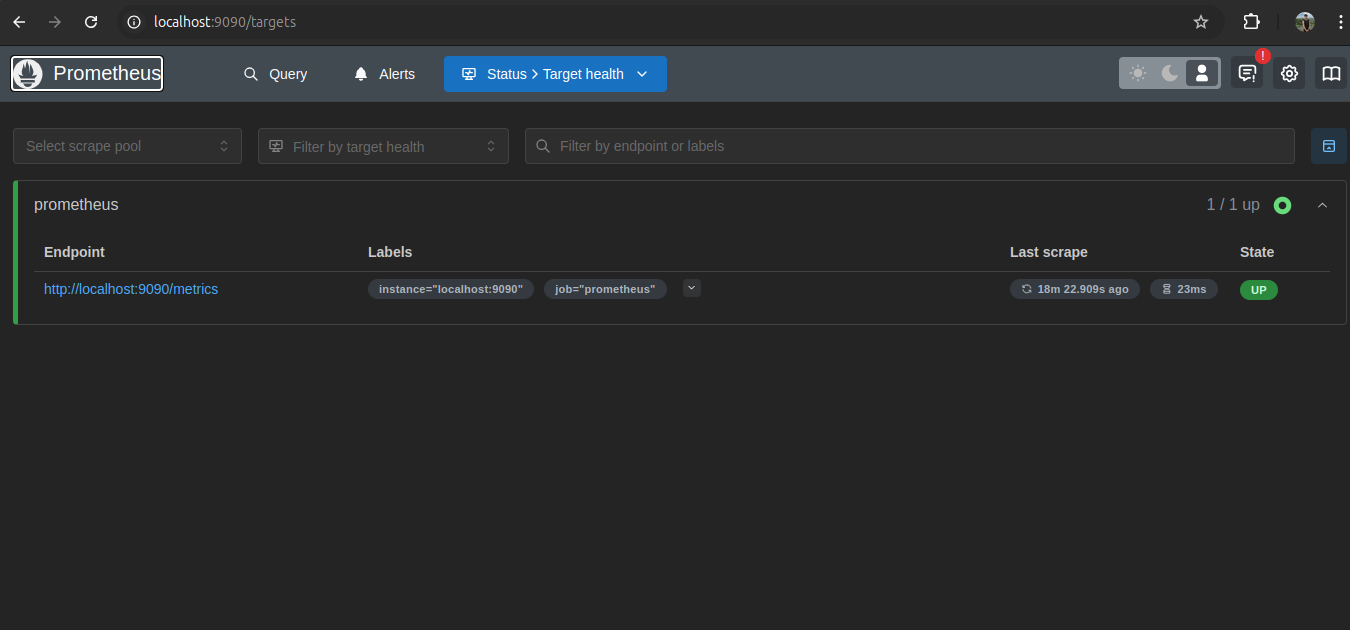
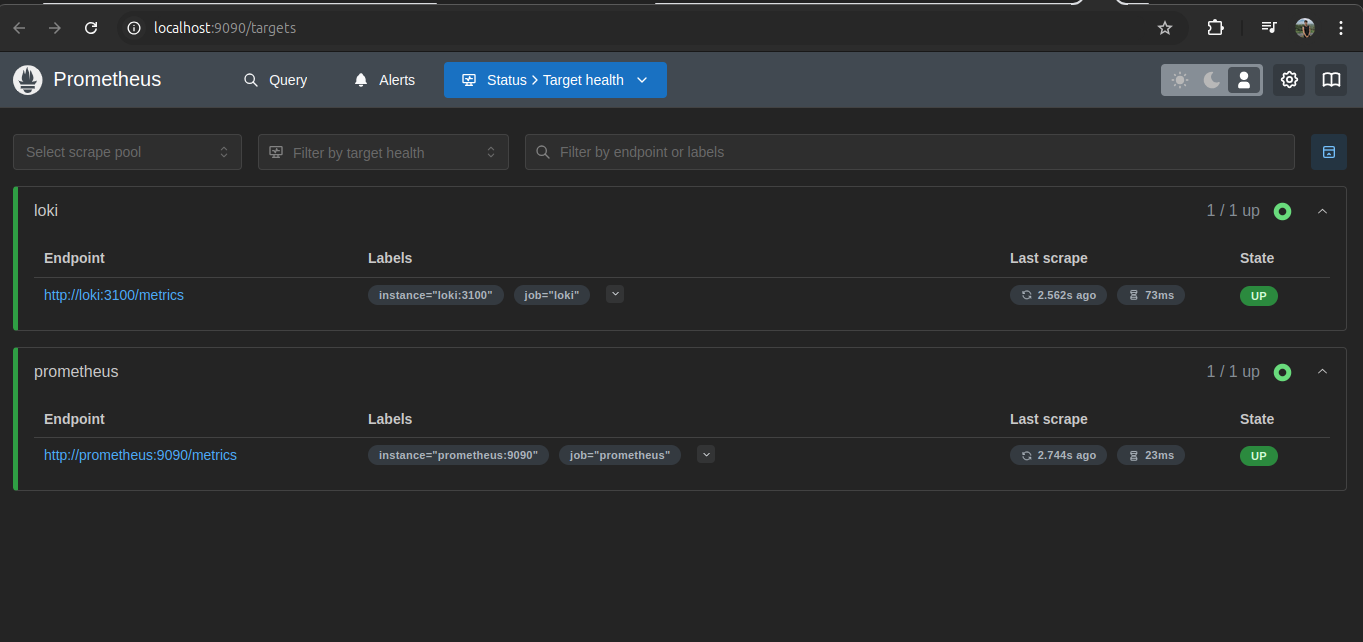
lab8

diff --git a/app_go/main.go b/app_go/main.go
@@ -4,9 +4,35 @@ import (
 	"fmt"
 	"net/http"
 	"time"
+
+	"github.com/prometheus/client_golang/prometheus"
+	"github.com/prometheus/client_golang/prometheus/promhttp"
 )
 
+// Define custom metrics
+var (
+	requestCounter = prometheus.NewCounter(prometheus.CounterOpts{
+		Name: "moscow_time_requests_total",
+		Help: "Total number of requests to the Moscow time endpoint.",
+	})
+
+	requestLatency = prometheus.NewHistogram(prometheus.HistogramOpts{
+		Name:    "moscow_time_request_latency_seconds",
+		Help:    "Request latency in seconds for the Moscow time endpoint.",
+		Buckets: prometheus.ExponentialBuckets(0.001, 2, 10), // Buckets for latency measurement
+	})
+)
+
+func init() {
+	// Register custom metrics with Prometheus
+	prometheus.MustRegister(requestCounter)
+	prometheus.MustRegister(requestLatency)
+}
+
 func moscowTimeHandler(w http.ResponseWriter, r *http.Request) {
+	// Start timing the request
+	start := time.Now()
+
 	// Load Moscow's timezone location
 	location, err := time.LoadLocation("Europe/Moscow")
 	if err != nil {
@@ -18,11 +44,26 @@ func moscowTimeHandler(w http.ResponseWriter, r *http.Request) {
 	moscowTime := time.Now().In(location)
 
 	// Format and display the time
-	fmt.Fprintf(w, "Current time in Moscow: %s", moscowTime.Format("2006-01-02 15:04:05 MST"))
+	fmt.Fprintf(w, "Current time in Moscow: %s\n", moscowTime.Format("2006-01-02 15:04:05 MST"))
+
+	// Record the request as completed
+	requestCounter.Inc()
+
+	// Calculate and record the latency
+	duration := time.Since(start).Seconds()
+	requestLatency.Observe(duration)
 }
 
 func main() {
+	// Set up the handler for the main endpoint
 	http.HandleFunc("/", moscowTimeHandler)
+
+	// Expose metrics at /metrics
+	http.Handle("/metrics", promhttp.Handler())
+
+	// Start the server
 	fmt.Println("Server started on :8080")
-	http.ListenAndServe(":8080", nil)
+	if err := http.ListenAndServe(":8080", nil); err != nil {
+		fmt.Printf("Error starting server: %v\n", err)
+	}
 }

diff --git a/app_python/moscow_time/moscow_time/urls.py b/app_python/moscow_time/moscow_time/urls.py
@@ -15,9 +15,17 @@ Including another URLconf
     2. Add a URL to urlpatterns:  path('blog/', include('blog.urls'))
 """
 from django.contrib import admin
+from django.http import HttpResponse
 from django.urls import path, include
+from prometheus_client import start_http_server, REGISTRY, MetricsHandler
+
+# Define a custom metrics view
+def metrics_view(request):
+    from prometheus_client.exposition import generate_latest
+    return HttpResponse(generate_latest(REGISTRY), content_type='text/plain')
 
 urlpatterns = [
     path('admin/', admin.site.urls),
-    path('', include('display_time.urls'))
+    path('', include('display_time.urls')), 
+    path('metrics', metrics_view),
 ]

diff --git a/monitoring/METRICS.md b/monitoring/METRICS.md
@@ -1,0 +1,65 @@
+# Service Configuration Updates
+
+It has been added the following : log rotation mechanisms, memory limits, Grafana dashboards, and metrics gathering.
+
+## Log Rotation Mechanisms
+
+To prevent log files from consuming excessive disk space, a log rotation mechanism has been implemented for all services using the `json-file` logging driver. The following options have been applied:
+
+- `max-size`: Limits the size of each log file to 10MB.
+- `max-file`: Retains up to 3 rotated log files.
+
+Services affected:
+- Loki
+- Promtail
+- Grafana
+- Prometheus
+- Python App
+- Go App
+
+## Memory Limits and Reservations
+
+Memory limits and reservations have been specified for all services to ensure optimal resource allocation and prevent memory overuse. The following values have been set:
+
+- **Loki, Promtail, Grafana, Prometheus**:
+  - Memory Limit: 512MB
+  - Memory Reservation: 256MB
+
+- **Python App**:
+  - Memory Limit: 200MB
+  - Memory Reservation: 80MB
+
+- **Go App**:
+  - Memory Limit: 150MB
+  - Memory Reservation: 60MB
+
+These configurations help maintain system stability and performance by limiting resource consumption.
+
+## Grafana Dashboards
+
+Two dashboards have been set up in Grafana to visualize logs and metrics:
+
+1. **Loki Dashboard**:
+   - Imported from [Grafana Loki Example Dashboard](https://grafana.com/grafana/dashboards/13407).
+   - Displays log data ingested by Loki.
+
+2. **Prometheus Dashboard**:
+   - Imported from [Grafana Prometheus Example Dashboard](https://grafana.com/grafana/dashboards/3662).
+   - Displays system and application metrics gathered by Prometheus.
+
+
+## Metrics Gathering
+
+Prometheus has been extended to gather metrics from all services defined in the `docker-compose.yml` file. The following services are now being scraped:
+
+- Prometheus itself (`localhost:9090`)
+- Loki (`loki:3100`)
+- Grafana (`grafana:3000`)
+- Python App (`python_app:5000`)
+- Go App (`go_app:8080`)
+
+The `prometheus.yml` configuration has been updated to include these targets. Additionally, the Python and Go apps have been modified to expose metrics at the `/metrics` endpoint.
+
+## Summary
+
+The updates ensure that all services are equipped with log rotation mechanisms, memory constraints, and comprehensive monitoring through Grafana dashboards and Prometheus metrics. This enhances the overall reliability, observability, and efficiency of the system.
